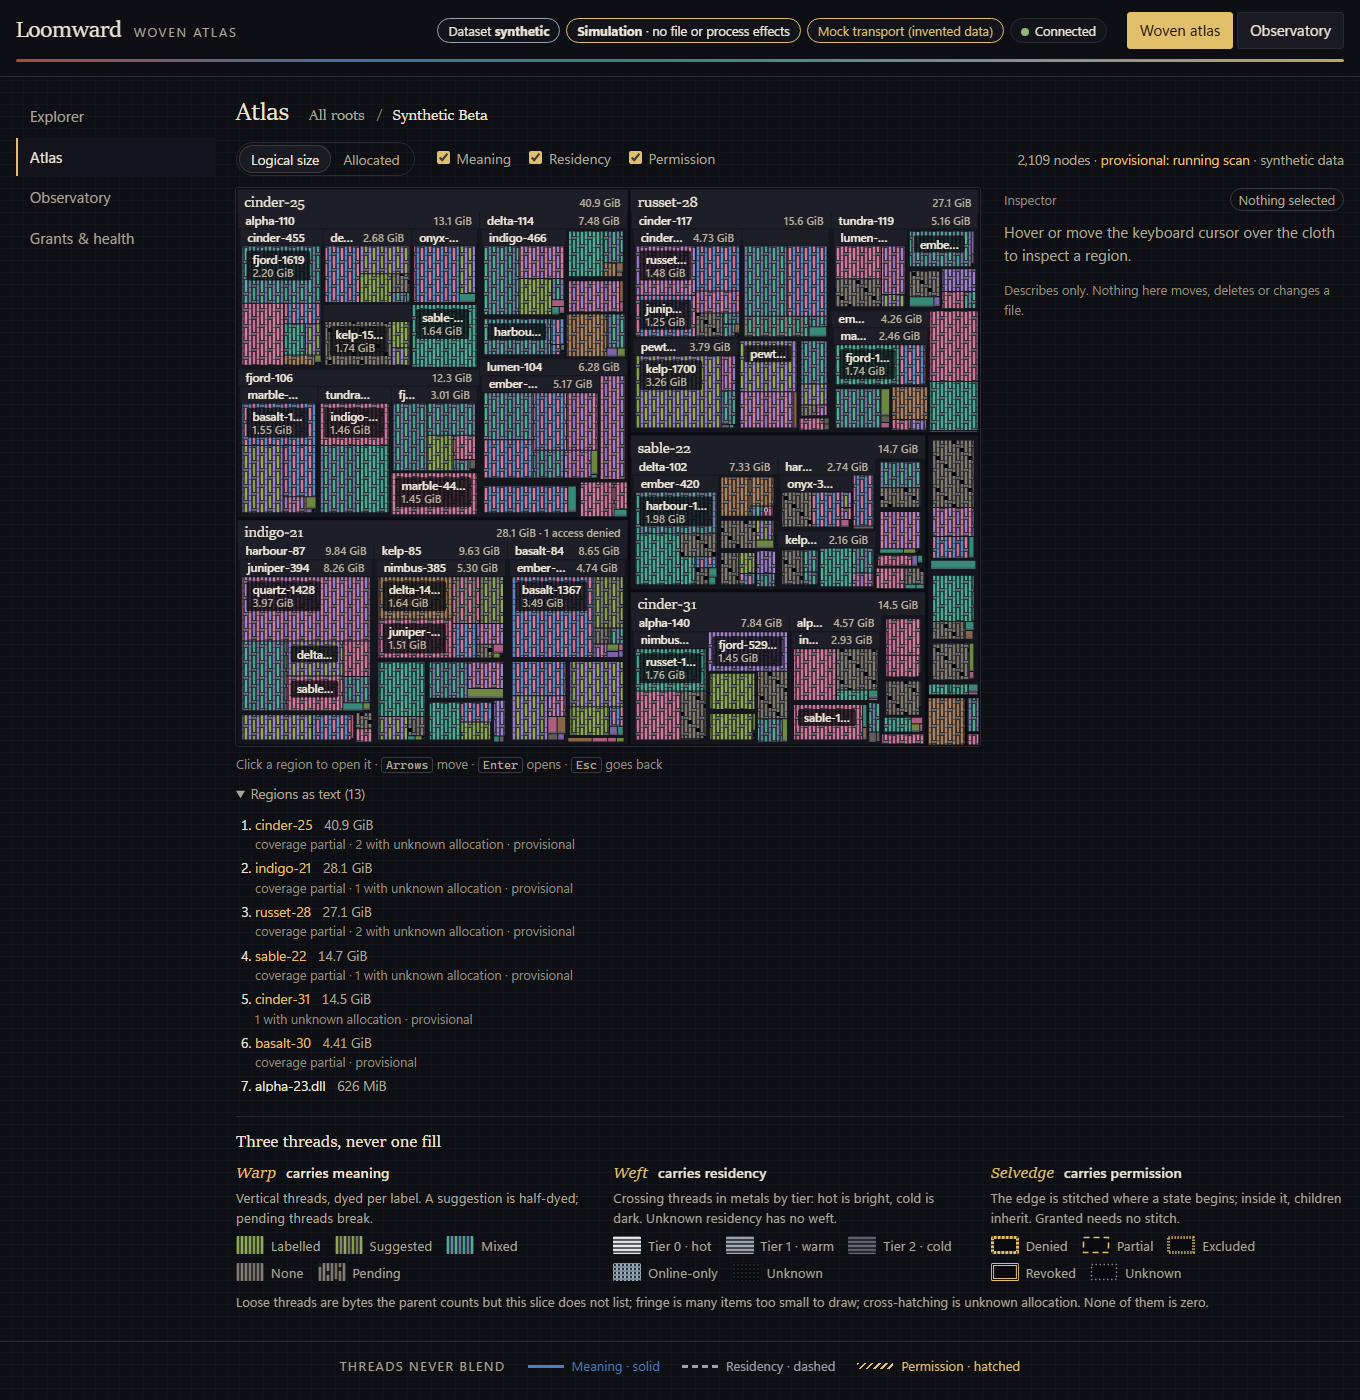
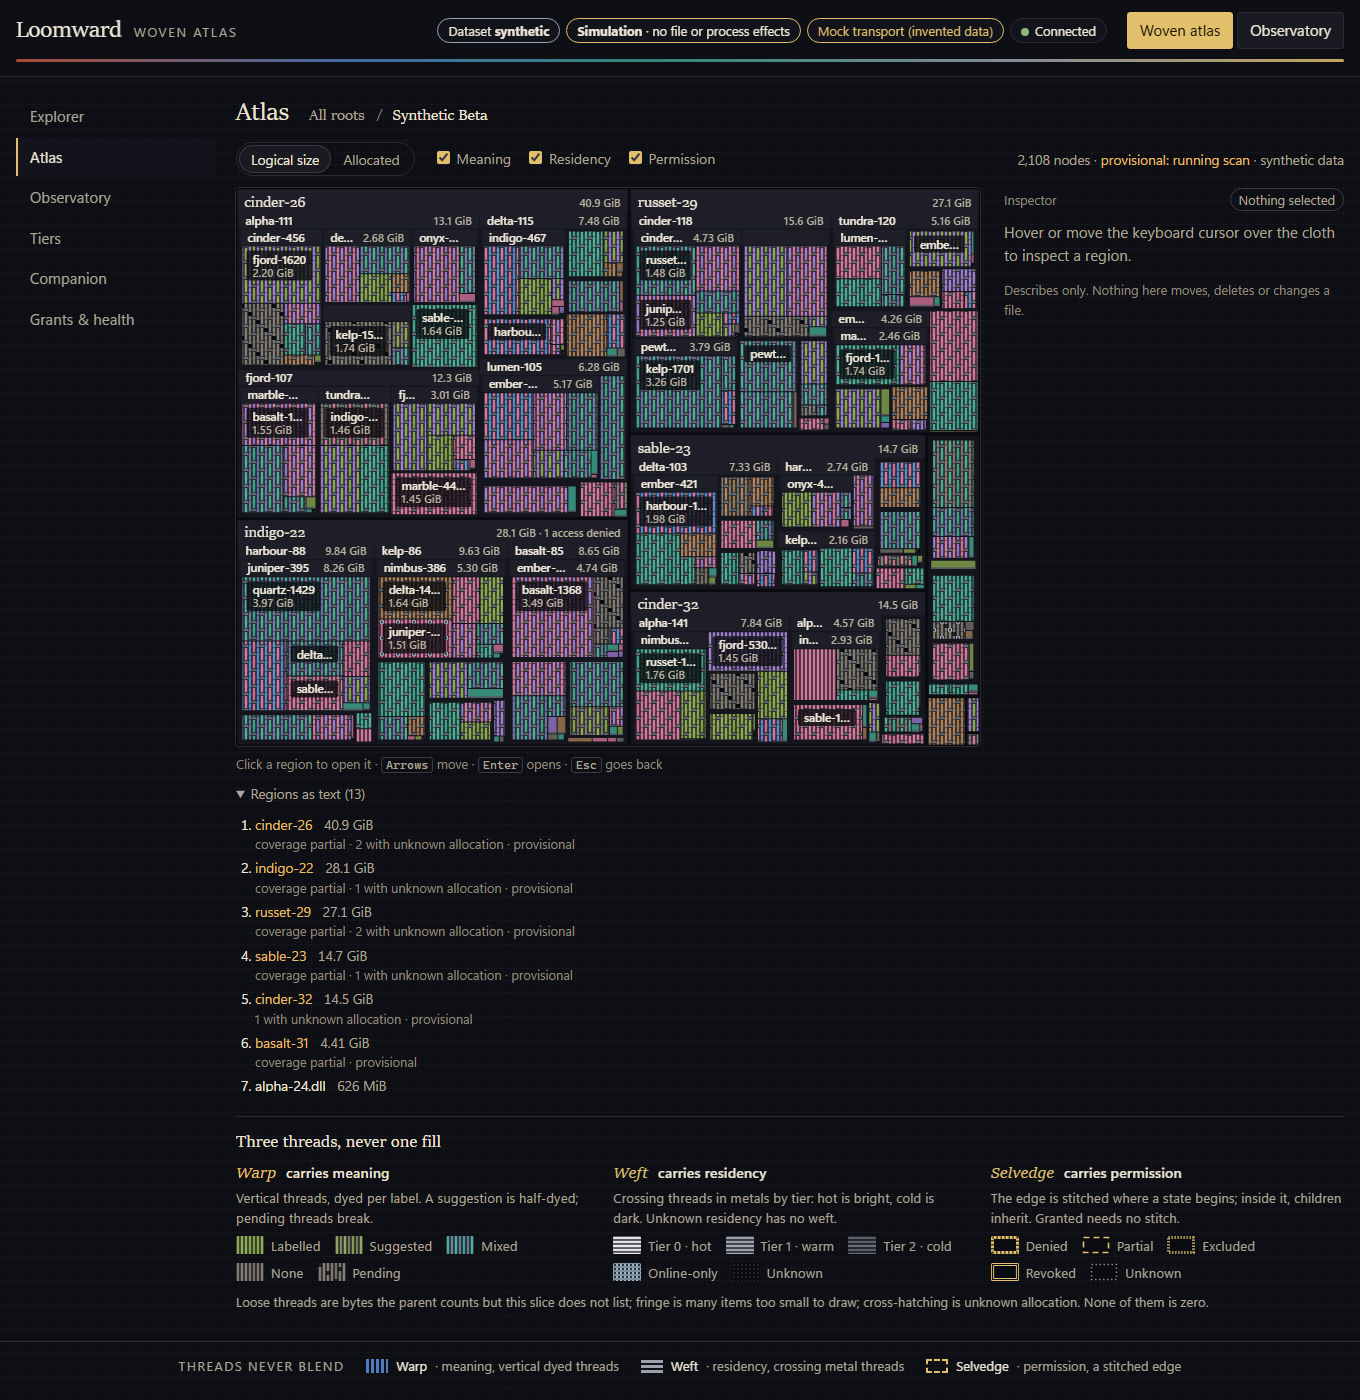
fix(app): footer legend names warp, weft and selvedge as the views weave them; refresh view evidence

diff --git a/app/src/App.svelte b/app/src/App.svelte
@@ -81,9 +81,9 @@
 
 <footer class="legend" aria-label="Thread legend">
   <span class="legend-title">Threads never blend</span>
-  <span class="thread meaning"><i></i>Meaning · solid</span>
-  <span class="thread residency"><i></i>Residency · dashed</span>
-  <span class="thread permission"><i></i>Permission · hatched</span>
+  <span class="thread meaning"><i></i><em>Warp</em> · meaning, vertical dyed threads</span>
+  <span class="thread residency"><i></i><em>Weft</em> · residency, crossing metal threads</span>
+  <span class="thread permission"><i></i><em>Selvedge</em> · permission, a stitched edge</span>
 </footer>
 
 <style>
@@ -138,12 +138,12 @@
   }
   .legend-title { letter-spacing: 0.1em; text-transform: uppercase; }
   .thread { display: inline-flex; align-items: center; gap: 8px; }
-  .thread i { width: 36px; height: 0; border-top: 3px solid currentColor; }
-  .thread.meaning { color: var(--meaning); }
-  .thread.residency { color: var(--residency); }
-  .thread.residency i { border-top-style: dashed; }
-  .thread.permission { color: var(--permission); }
-  .thread.permission i { height: 6px; border: 0; background: repeating-linear-gradient(135deg, currentColor 0 2px, transparent 2px 5px); }
+  /* the same structures the views weave: vertical warp, horizontal weft, a stitched selvedge */
+  .thread i { width: 22px; height: 14px; }
+  .thread em { font-style: normal; color: var(--text); }
+  .thread.meaning i { background: repeating-linear-gradient(90deg, var(--meaning) 0 3px, transparent 3px 5px); }
+  .thread.residency i { background: repeating-linear-gradient(0deg, var(--residency) 0 3px, transparent 3px 5px); }
+  .thread.permission i { border: 2px dashed var(--permission); }
 
   @media (max-width: 760px) {
     .frame { grid-template-columns: 1fr; gap: 12px; }
